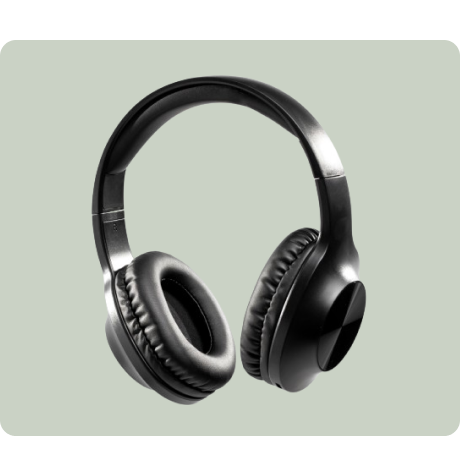
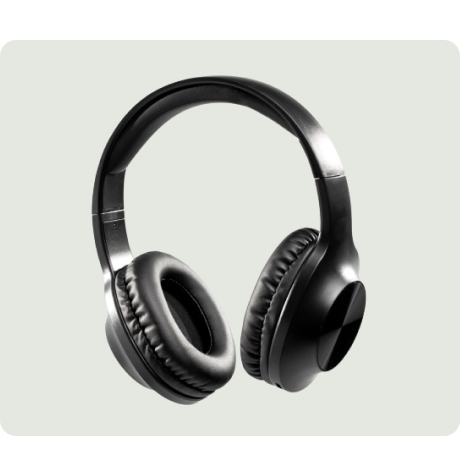
Updated Navbar + Updated Footer + Updated Variables

diff --git a/index.html b/index.html
@@ -20,7 +20,7 @@
 
 <body>
    <!-- NAVBAR -->
-   <nav>
+   <nav id="navbar">
       <div class="container-navbar">
          <a href="/index.html"><img src="styles-css/assets/navbar/logo-temporaria.svg" alt=""></a>
          <div class="container-fluid">
@@ -31,16 +31,20 @@
          <div class="navbar-icons">
             <a href="">
                <img src="styles-css/assets/navbar/icons-navbar/favorite.svg" alt="">
-               <span class="icon-name">Favorites</span> </a>
+               <span class="icon-name">Favorites</span>
+            </a>
             <a href="">
                <img src="styles-css/assets/navbar/icons-navbar/cart.svg" alt="">
-               <span class="icon-name">Cart</span> </a>
+               <span class="icon-name">Cart</span>
+            </a>
             <a href="">
                <img src="styles-css/assets/navbar/icons-navbar/profile.svg" alt="">
-               <span class="icon-name">Profile</span> </a>
+               <span class="icon-name">Profile</span>
+            </a>
          </div>
       </div>
    </nav>
+
 
    <!-- PAGE LINKS -->
    <div class="container-links">
@@ -52,7 +56,7 @@
          <a href="#featured-products">Featured Products</a>
          <img src="styles-css/assets/pageslinks/circle.svg" alt="">
       </div>
-      <a href="">Feedbacks</a>
+      <a href="#feedbacks">Feedbacks</a>
    </div>
 
    <!-- CAROUSEL -->
@@ -282,7 +286,7 @@
          </div>
       </div>
 
-      <div class="container-feedbacks">
+      <div id="feedbacks" class="container-feedbacks">
          <div class="section-title">
             <h2>Feedbacks</h2>
          </div>

diff --git a/scripts-js/script.js b/scripts-js/script.js
@@ -10,3 +10,21 @@ iconNames.forEach((iconName) => {
     iconName.style.top = `${newY}px`;
   });
 });
+
+document.addEventListener("DOMContentLoaded", function () {
+  let lastScrollTop = 0;
+  const navbar = document.getElementById("navbar");
+
+  window.addEventListener("scroll", function () {
+    let scrollTop = window.pageYOffset || document.documentElement.scrollTop;
+
+    if (scrollTop > lastScrollTop) {
+      // Rolando para baixo
+      navbar.classList.add("navbar-hidden");
+    } else {
+      // Rolando para cima
+      navbar.classList.remove("navbar-hidden");
+    }
+    lastScrollTop = scrollTop <= 0 ? 0 : scrollTop; // Para evitar números negativos
+  });
+});

diff --git a/styles-css/spec-css/navbar.css b/styles-css/spec-css/navbar.css
@@ -1,5 +1,5 @@
 nav {
-  position: absolute;
+  position: fixed;
   top: 0;
   left: 0;
   width: 100%;
@@ -9,7 +9,11 @@ nav {
   display: flex;
   align-items: center;
   z-index: 100;
-  position: fixed;
+  transition: top 0.3s;
+}
+
+.navbar-hidden {
+  top: -16rem; /* Ajuste este valor conforme a altura da sua navbar */
 }
 
 .container-navbar {

diff --git a/styles-css/variables.css b/styles-css/variables.css
@@ -1,8 +1,8 @@
 :root {
   --color-white: #f8f8ff;
   --color-black: #252422;
-  --color-bege: #dad7cd;
-  --color-verde-1: #cad2c5;
+  --color-bege: rgba(218, 215, 205, 0.5); /*background 50%*/
+  --color-verde-1: rgba(202, 210, 197, 0.5); /*background 50%*/
   --color-verde-2: #84a98c;
   --color-verde-3: #52796f;
   --color-verde-4: #2f3e46;

diff --git a/styles-css/spec-css/feedbacks.css b/styles-css/spec-css/feedbacks.css
@@ -51,7 +51,7 @@
 
 .feedback-user-name {
   font-weight: 700;
-  color: var(--color-verde-4);
+  color: var(--color-white);
 }
 
 .carousel-item .feedbacks-carousel-caption p {

diff --git a/styles-css/spec-css/footer.css b/styles-css/spec-css/footer.css
@@ -1,6 +1,6 @@
 footer {
   box-shadow: 4px 4px 4px rgba(0, 0, 0, 0.1) inset;
-  padding: 4rem 0rem;
+  padding: 5rem 0rem;
 }
 
 .container-footer {
